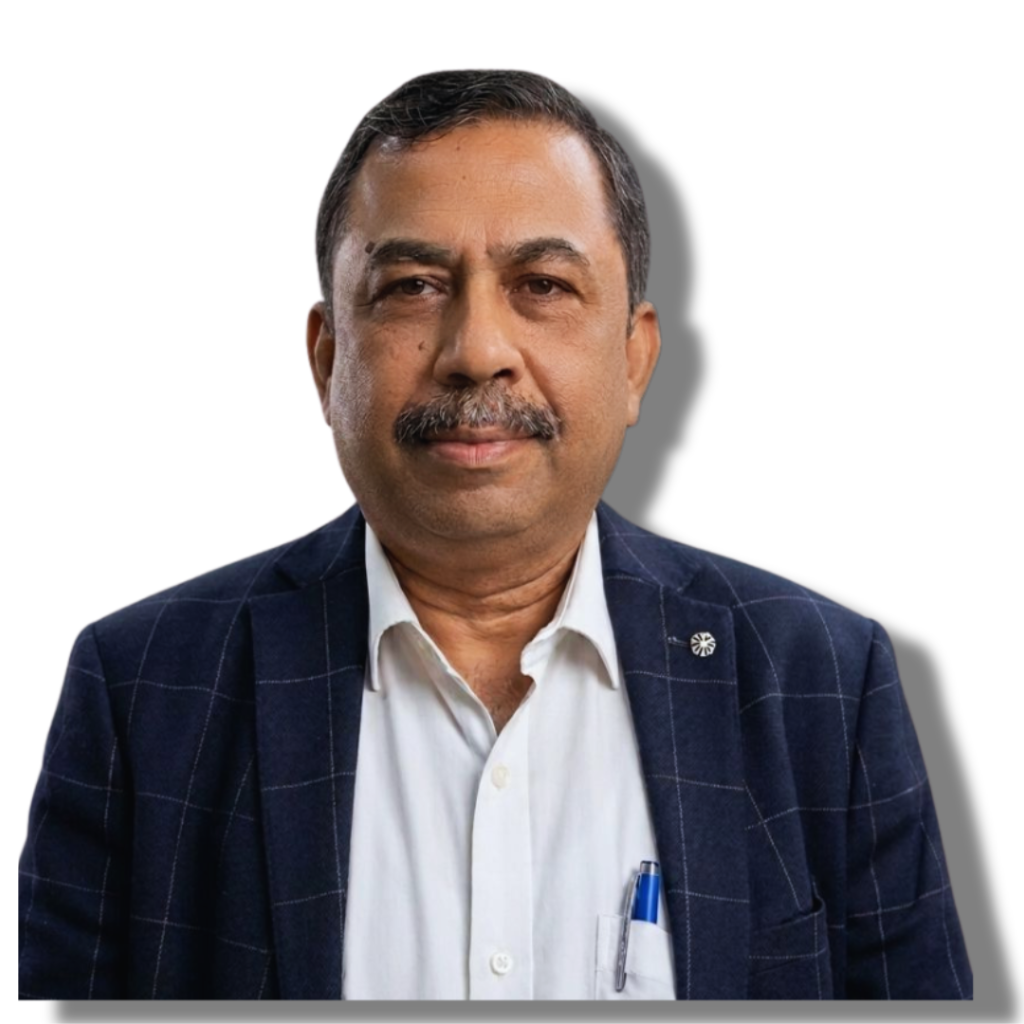
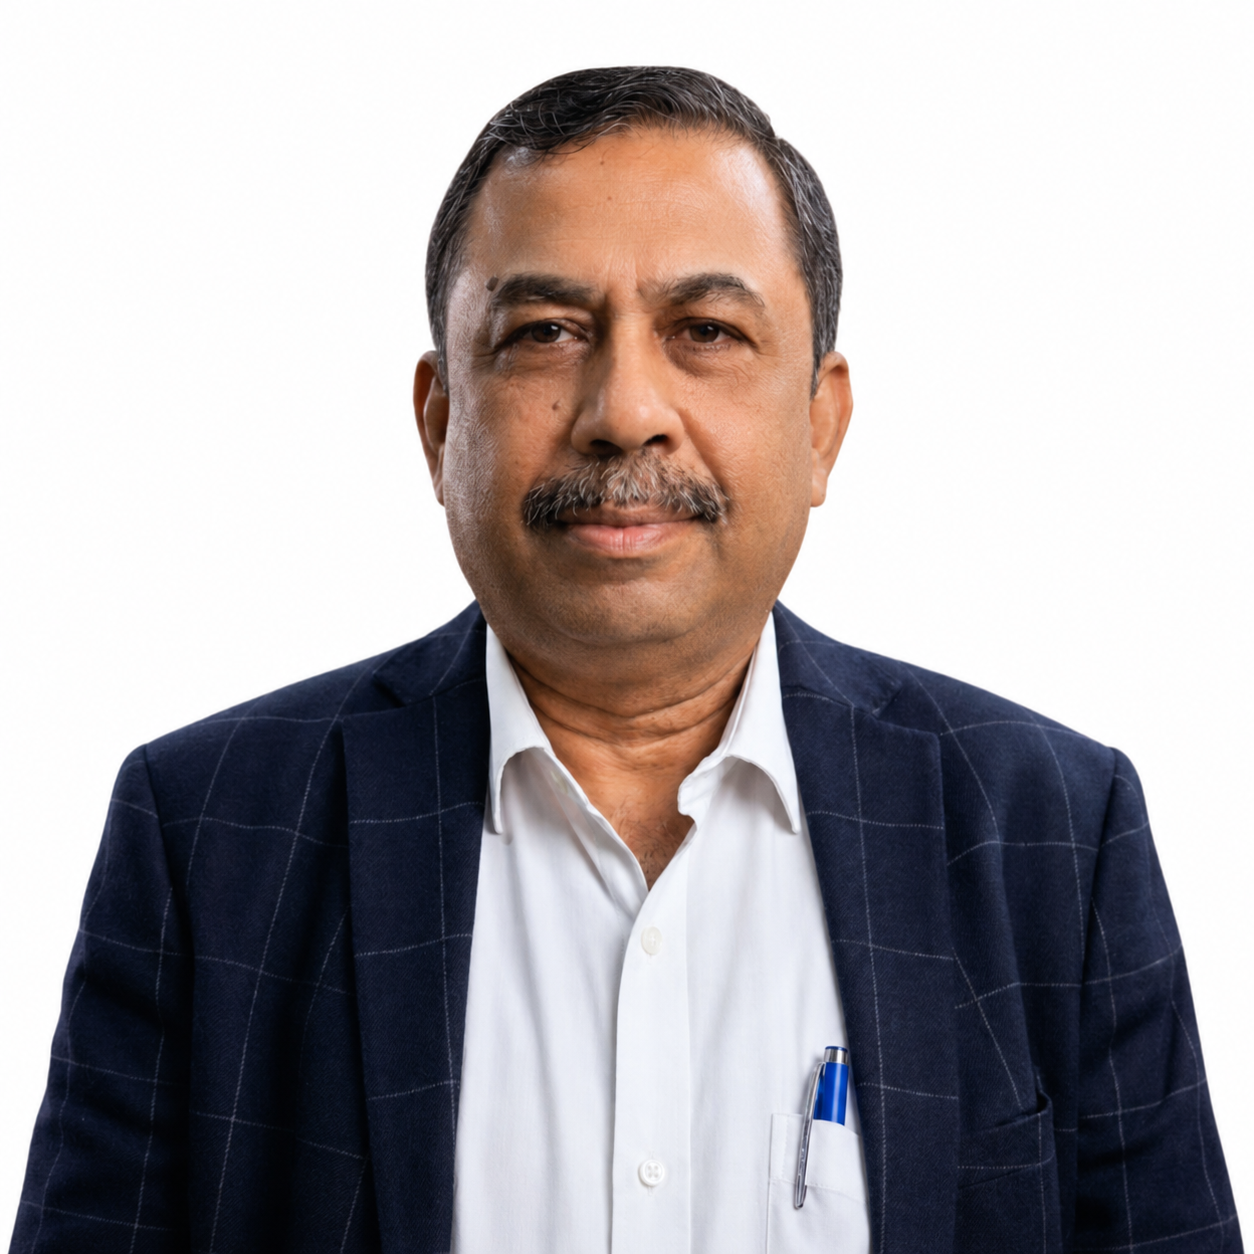
chores: 1) Redirected 'Read More' of activity cards, 2) Removed 'Mission Fields' details 3) Relocated page arrows of Blog Cards 4) Updated CB photo section

diff --git a/frontend/app/about/leadership/page.js b/frontend/app/about/leadership/page.js
@@ -5,29 +5,29 @@ import { Search } from 'lucide-react';
 import PageHeader from '@/components/PageHeader';
 
 const DEACONS_DATA = [
-  { id: 101, name: "Mr. Asish Baran Parida", role: "Elder", category: "Elder", gender: "male", image: "/images/leadership/asish_baran_parida.jpg" },
+  { id: 101, name: "Mr. Asish Baran Parida", role: "Elder", category: "Elder", gender: "male", image: "/images/leadership/asish_baran_parida.png" },
   { id: 102, name: "Mr. Biren Kumar Pradhan", role: "Elder", category: "Elder", gender: "male", image: "/images/leadership/biren_kumar_pradhan.png" },
   { id: 103, name: "Mr. Pradip Kumar Roul", role: "Elder", category: "Elder", gender: "male", image: "/images/leadership/pradip_kumar_roul.png" },
   { id: 104, name: "Mr. Sarat Kumar Singh", role: "Elder", category: "Elder", gender: "male", image: "/images/leadership/sarat_kumar_singh.png" },
-  { id: 105, name: "Mr. Sishir Baran Puri", role: "Elder", category: "Elder", gender: "male", image: "/images/leadership/sishir_baran_puri.jpg" },
+  { id: 105, name: "Mr. Sishir Baran Puri", role: "Elder", category: "Elder", gender: "male", image: "/images/leadership/sishir_baran_puri.png" },
   { id: 1, name: "Mr. Michael Rajesh Behera", role: "Secretary", category: "Secretary", gender: "male", image: "/images/leadership/michael_rajesh_behera.png" },
   { id: 2, name: "Mr. Smruti Ranjan Nayak", role: "Joint secretary", category: "Office Bearers", gender: "male", image: "/images/leadership/smruti_ranjan_nayak.png" },
   { id: 3, name: "Mr. Suranjan Thomas", role: "Treasurer", category: "Office Bearers", gender: "male", image: "/images/leadership/suranjan_thomas.png" },
   { id: 4, name: "Mr. Adit Jena", role: "Deacon", category: "Deacon", gender: "male", image: "/images/leadership/adit_jena.png" },
-  { id: 5, name: "Mr. Amrut Kumar Jena", role: "Deacon", category: "Deacon", gender: "male", image: "/images/leadership/amrut_kumar_jena.jpg" },
-  { id: 6, name: "Mr. Benjamin Peter", role: "Deacon", category: "Deacon", gender: "male", image: "/images/leadership/benjamin_peter.jpg" },
-  { id: 7, name: "Mr. Bipra Charan Digal", role: "Deacon", category: "Deacon", gender: "male", image: "/images/leadership/bipra_charan_digal.jpg" },
+  { id: 5, name: "Mr. Amrut Kumar Jena", role: "Deacon", category: "Deacon", gender: "male", image: "/images/leadership/amrut_kumar_jena.png" },
+  { id: 6, name: "Mr. Benjamin Peter", role: "Deacon", category: "Deacon", gender: "male", image: "/images/leadership/benjamin_peter.png" },
+  { id: 7, name: "Mr. Bipra Charan Digal", role: "Deacon", category: "Deacon", gender: "male", image: "/images/leadership/bipra_charan_digal.png" },
   { id: 8, name: "Mr. Gokula Chandra Pradhan", role: "Deacon", category: "Deacon", gender: "male", image: "/images/leadership/gokula_chandra_pradhan.png" },
   { id: 9, name: "Mr. Manas Ranjan Behera", role: "Deacon", category: "Deacon", gender: "male", image: "/images/leadership/manas_ranjan_behera.png" },
-  { id: 10, name: "Mr. Prafulla Kumar Dash", role: "Deacon", category: "Deacon", gender: "male", image: "/images/leadership/prafulla_kumar_dash.jpg" },
+  { id: 10, name: "Mr. Prafulla Kumar Dash", role: "Deacon", category: "Deacon", gender: "male", image: "/images/leadership/prafulla_kumar_dash.png" },
   { id: 11, name: "Mr. Pravat Kumar Chand", role: "Deacon", category: "Deacon", gender: "male", image: "/images/leadership/pravat_chand.png" },
   { id: 12, name: "Mr. Rajsekhar Sahu", role: "Deacon", category: "Deacon", gender: "male", image: "/images/leadership/rajsekhar_sahu.png" },
   { id: 13, name: "Mr. Ranjan Gan", role: "Deacon", category: "Deacon", gender: "male", image: "/images/leadership/ranjan_gan.png" },
   { id: 14, name: "Mr. Santosh Kumar Nayak", role: "Deacon", category: "Deacon", gender: "male", image: "/images/leadership/santosh_kumar_nayak.png" },
-  { id: 15, name: "Mr. Satya Ranjan Singh", role: "Deacon", category: "Deacon", gender: "male", image: "/images/leadership/satya_ranjan_singh.jpg" },
+  { id: 15, name: "Mr. Satya Ranjan Singh", role: "Deacon", category: "Deacon", gender: "male", image: "/images/leadership/satya_ranjan_singh.png" },
   { id: 16, name: "Mr. Sudhir Kumar Swain", role: "Deacon", category: "Deacon", gender: "male", image: "/images/leadership/sudhir_kumar_swain.png" },
-  { id: 17, name: "Ms. Swarnamayee Patra", role: "Deaconess", category: "Deaconess", gender: "female", image: "/images/leadership/swarnamayee_patra.jpg" },
-  { id: 18, name: "Ms. Madhuleeta Samantaray", role: "Deaconess", category: "Deaconess", gender: "female", image: "/images/leadership/madhuleeta_samantaray.jpg" }
+  { id: 17, name: "Ms. Swarnamayee Patra", role: "Deaconess", category: "Deaconess", gender: "female", image: "/images/leadership/swarnamayee_patra.png" },
+  { id: 18, name: "Ms. Madhuleeta Samantaray", role: "Deaconess", category: "Deaconess", gender: "female", image: "/images/leadership/madhuleeta_samantaray.png" }
 ];
 
 const CATEGORIES = ["All", "Secretary", "Office Bearers", "Elders", "Deacons & Deaconesses"];

diff --git a/frontend/components/ChurchesMapSection.js b/frontend/components/ChurchesMapSection.js
@@ -13,12 +13,12 @@ const SATELLITE_CHURCHES = [
 ];
 
 const MISSION_FIELDS = [
-  { id: 1, name: "Jagatsinghpur", coords: [20.2644, 86.1666], desc: "Our mission field in Jagatsinghpur district.", type: 'mission' },
-  { id: 2, name: "Nayagarh",      coords: [20.1255, 85.1066], desc: "Our mission field in Nayagarh district.",      type: 'mission' },
-  { id: 3, name: "Baripada",      coords: [21.9320, 86.7265], desc: "Our mission field in Baripada (Mayurbhanj).",  type: 'mission' },
+  // { id: 1, name: "Jagatsinghpur", coords: [20.2644, 86.1666], desc: "Our mission field in Jagatsinghpur district.", type: 'mission' },
+  // { id: 2, name: "Nayagarh",      coords: [20.1255, 85.1066], desc: "Our mission field in Nayagarh district.",      type: 'mission' },
+  // { id: 3, name: "Baripada",      coords: [21.9320, 86.7265], desc: "Our mission field in Baripada (Mayurbhanj).",  type: 'mission' },
 ];
 
-const ALL_CHURCHES = [...SATELLITE_CHURCHES, ...MISSION_FIELDS];
+const ALL_CHURCHES = [...SATELLITE_CHURCHES]; // ...MISSION_FIELDS removed for now
 
 // ── Unified warm palette ──
 const SATELLITE_COLOR = '#800000'; // deep maroon
@@ -49,7 +49,7 @@ export default function ChurchesMapSection() {
         { opacity: 1, y: 0, duration: 0.8, ease: 'power3.out',
           scrollTrigger: { trigger: headingRef.current, start: 'top 88%', once: true } }
       );
-      gsap.fromTo([col1Ref.current, col2Ref.current],
+      gsap.fromTo([col1Ref.current /*, col2Ref.current*/],
         { opacity: 0, y: 32 },
         { opacity: 1, y: 0, duration: 0.7, stagger: 0.14, ease: 'power2.out',
           scrollTrigger: { trigger: col1Ref.current, start: 'top 84%', once: true } }
@@ -113,7 +113,7 @@ export default function ChurchesMapSection() {
         </div>
 
         {/* Mission Fields */}
-        <div ref={col2Ref} className="sc-list-col" style={{ opacity: 0 }}>
+        {/* <div ref={col2Ref} className="sc-list-col" style={{ opacity: 0 }}>
           <ListHeader label="Mission Fields" color={MISSION_COLOR} />
           <div className="sc-list custom-scrollbar">
             {MISSION_FIELDS.map((church) => (
@@ -126,7 +126,7 @@ export default function ChurchesMapSection() {
               />
             ))}
           </div>
-        </div>
+        </div> */}
       </div>
 
       <style jsx>{`
@@ -151,7 +151,8 @@ export default function ChurchesMapSection() {
         @media (min-width: 992px) {
           .sc-content-grid {
             display: grid;
-            grid-template-columns: 2fr 1fr 1fr;
+            /* grid-template-columns: 2fr 1fr 1fr; */
+            grid-template-columns: 2fr 1fr;
             align-items: start;
             gap: 20px;
           }

diff --git a/frontend/components/BlogInspiration.jsx b/frontend/components/BlogInspiration.jsx
@@ -339,31 +339,10 @@ export default function BlogInspiration() {
   return (
     <div ref={containerRef} className={styles.sliderSection}>
 
-      {/* Slider Controls Sub-Header */}
-      <div className={styles.sliderHeader}>
-        <span className={styles.sliderSubtitle}></span>
-        <div className={styles.sliderControls}>
-          <button
-            className={styles.navButton}
-            onClick={handlePrev}
-            aria-label="Previous posts"
-          >
-            <svg width="14" height="14" viewBox="0 0 24 24" fill="none" stroke="currentColor" strokeWidth="2.5" strokeLinecap="round" strokeLinejoin="round"><polyline points="15 18 9 12 15 6" /></svg>
-          </button>
-          <button
-            className={styles.navButton}
-            onClick={handleNext}
-            aria-label="Next posts"
-          >
-            <svg width="14" height="14" viewBox="0 0 24 24" fill="none" stroke="currentColor" strokeWidth="2.5" strokeLinecap="round" strokeLinejoin="round"><polyline points="9 18 15 12 9 6" /></svg>
-          </button>
-        </div>
-      </div>
-
       {/* Drag Hint */}
       <div className={styles.dragHint} aria-hidden="true">
         <span className={styles.dragHintLine} />
-        <span>drag to explore</span>
+        <span>swipe to explore</span>
         <span className={styles.dragHintLine} />
       </div>
 
@@ -440,6 +419,24 @@ export default function BlogInspiration() {
             </article>
           ))}
         </div>
+      </div>
+
+      {/* Navigation Buttons (Moved here) */}
+      <div className={styles.sliderControlsBottom}>
+        <button
+          className={styles.navButton}
+          onClick={handlePrev}
+          aria-label="Previous posts"
+        >
+          <svg width="14" height="14" viewBox="0 0 24 24" fill="none" stroke="currentColor" strokeWidth="2.5" strokeLinecap="round" strokeLinejoin="round"><polyline points="15 18 9 12 15 6" /></svg>
+        </button>
+        <button
+          className={styles.navButton}
+          onClick={handleNext}
+          aria-label="Next posts"
+        >
+          <svg width="14" height="14" viewBox="0 0 24 24" fill="none" stroke="currentColor" strokeWidth="2.5" strokeLinecap="round" strokeLinejoin="round"><polyline points="9 18 15 12 9 6" /></svg>
+        </button>
       </div>
 
       {/* Dot Indicators */}

diff --git a/frontend/components/ActivitiesGrid.jsx b/frontend/components/ActivitiesGrid.jsx
@@ -68,7 +68,7 @@ export default function ActivitiesGrid() {
     },
     {
       title: 'Sunday School',
-      link: '#',
+      link: '/activities/sunday-school',
       description: (
         <div className={`${styles.scheduleInfo} ${styles.sundaySchedule}`}>
           <div className={styles.scheduleRow}>
@@ -99,7 +99,7 @@ export default function ActivitiesGrid() {
     },
     {
       title: 'Counselling and Baptism',
-      link: '#',
+      link: '/activities/baptism-classes',
       description: (
         <div className={styles.ceSchedule}>
           <div className={styles.ceScheduleItem}>
@@ -140,7 +140,7 @@ export default function ActivitiesGrid() {
     },
     {
       title: 'CE Union',
-      link: '#',
+      link: '/activities/christian-endeavour-union',
       description: (
         <div className={styles.ceSchedule}>
           <div className={styles.ceScheduleItem}>
@@ -181,7 +181,7 @@ export default function ActivitiesGrid() {
     },
     {
       title: "Women's Fellowship",
-      link: '#',
+      link: '/activities/womens-fellowship',
       description: (
         <div className={styles.ceSchedule}>
           <div className={styles.ceScheduleItem}>
@@ -222,7 +222,7 @@ export default function ActivitiesGrid() {
     },
     {
       title: 'Youth Fellowship',
-      link: '#',
+      link: '/activities/youth-fellowship',
       description: (
         <div className={styles.ceSchedule}>
           <div className={styles.ceScheduleItem}>

diff --git a/frontend/app/globals.css b/frontend/app/globals.css
@@ -74,6 +74,11 @@ button {
   outline: none;
 }
 
+/* Prevent textareas from being manually resized to maintain layout */
+textarea {
+  resize: none;
+}
+
 /* Utilities */
 .container {
   width: 100%;
@@ -418,14 +423,11 @@ button {
   height: 100%;
   object-fit: cover;
   object-position: center top;
-  filter: grayscale(100%) contrast(1.05);
-  transition: transform var(--transition-slow) cubic-bezier(0.165, 0.84, 0.44, 1),
-              filter var(--transition-slow) cubic-bezier(0.165, 0.84, 0.44, 1);
+  transition: transform var(--transition-slow) cubic-bezier(0.165, 0.84, 0.44, 1);
 }
 
 .deacon-card:hover .deacon-img {
   transform: scale(1.06);
-  filter: grayscale(0%) contrast(1.05);
 }
 
 .deacon-info-overlay {

diff --git a/frontend/components/BlogInspiration.module.css b/frontend/components/BlogInspiration.module.css
@@ -53,6 +53,14 @@
   align-items: center;
 }
 
+.sliderControlsBottom {
+  display: flex;
+  justify-content: center;
+  align-items: center;
+  gap: 1.5rem;
+  margin-top: 1.5rem;
+}
+
 /* Premium maroon-themed nav buttons */
 .navButton {
   width: 2.75rem;
@@ -370,7 +378,7 @@
   justify-content: center;
   align-items: center;
   gap: 0.45rem;
-  margin-top: 2rem;
+  margin-top: 1.5rem;
   pointer-events: none;
 }
 
@@ -581,7 +589,8 @@
     margin-bottom: 1.25rem;
   }
 
-  .sliderControls {
+  .sliderControls,
+  .sliderControlsBottom {
     display: none;
   }
 
